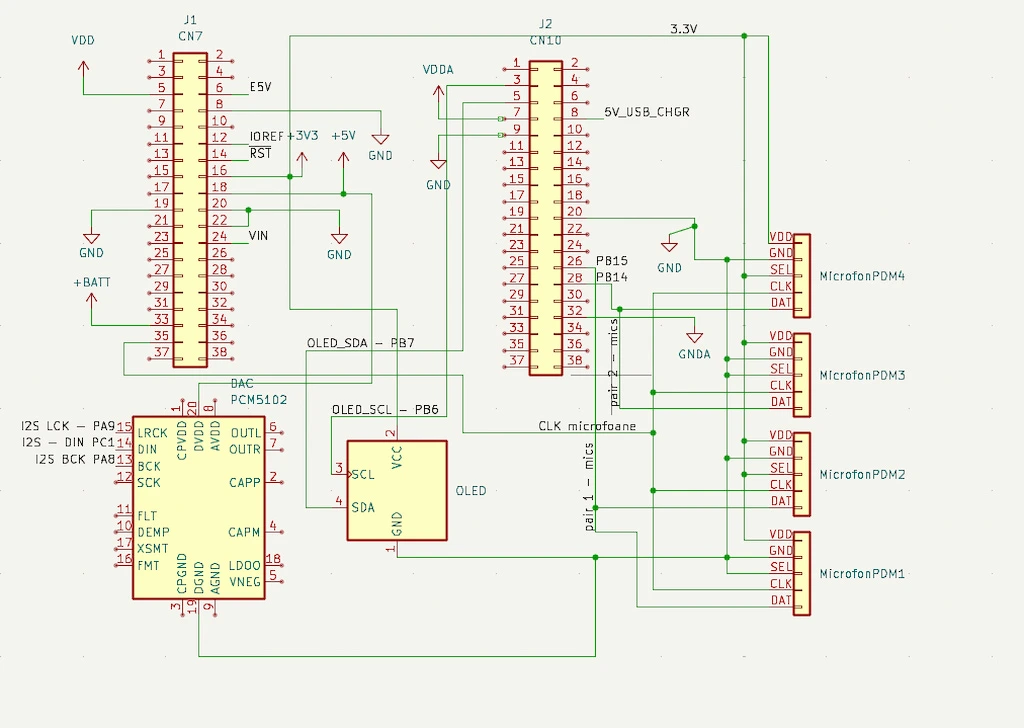
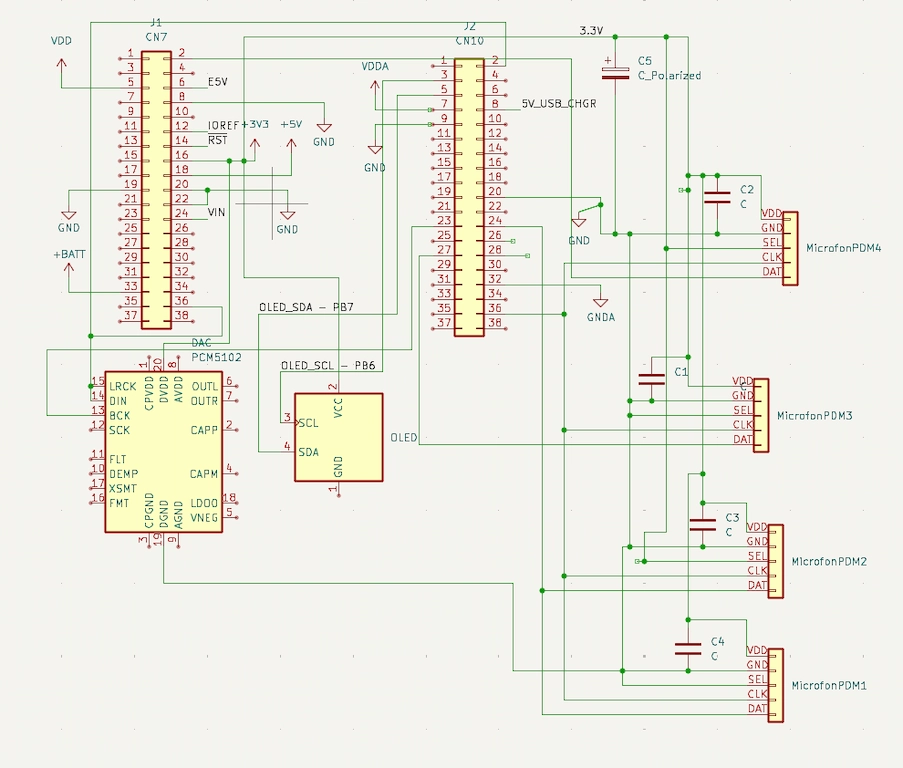
Project/stefan eduard.manda (#1324)
* Adaugat documentatie proiect Manda Stefan-Eduard

* adaugat poze

* test2

* modificat inclinatie poza

* probleme poze solved?!

* adaugat text software

* test

* idk eroare ceva account

Changed region(s): [[0.0, 0.0, 0.9612, 0.967], [0.186, 0.8764, 0.2171, 0.9066]]

diff --git a/website/versioned_docs/version-acs_cc/project/2026/stefan_eduard.manda/index.md b/website/versioned_docs/version-acs_cc/project/2026/stefan_eduard.manda/index.md
@@ -50,7 +50,7 @@ Am stabilit ideea de proiect și am primit aprobarea că este ok.
 
 ### Week 7-8
 
-Am dat comanda de piese de pe AlieExpress și am început să caut documentația embassy-rs și să fac un prototip de case pt tot proiectul in Fusion360.
+Am dat comanda de piese de pe AliExpress și am început să caut documentația embassy-rs.
 
 ### Week 9
 
@@ -58,8 +58,11 @@ Mi-au venit piesele și m am apucat să scriu documentația.
 
 ### Week 11
 
-Am termiant circuitul si mai urmeaza sa i fac un case printat 3d sau un prototip de cutie pt a fi ergonomic
+Am termiant circuitul si am facut schema in KiCad (microfoane, DAC, Oled).
 
+### Week 12-13
+
+Am scris cod de test in Rust: mai intai un singur microfon + casti, apoi OLED, apoi 2 microfoane. Inca lucrez la al treilea/al patrulea canal ca sa ajung la array ul complet de 4.
 
 ## Hardware
 
@@ -88,7 +91,15 @@ Schematica electrica a sistemului include conexiunile pentru bus-ul de date PDM(
 
 ## Software
 
-- TODO: se va adauga pe parcurs
+Tot codul e in Rust, cu embassy pentru partea de harware.
+
+Am mai multe programe de test:
+
+'mic_listen' - un microfon + casti - verific ca aud ceva clar
+'mic_test' - acelasi microfon, dar cu VU pe OLED
+'casti_oled' - 2 microfoane + casti + ecran
+
+Pe scurt: microfoanele dau PCM la 16kHz, il trimit la DAC pt casti, iar in paralel calculez nivelul pentru oled. Beamforming-ul complet pe toate cele 4 canale e inca in dezvoltare - acum merge bine lantul de baza si varianta cu 2 microfoane.
 
 ## Links
 